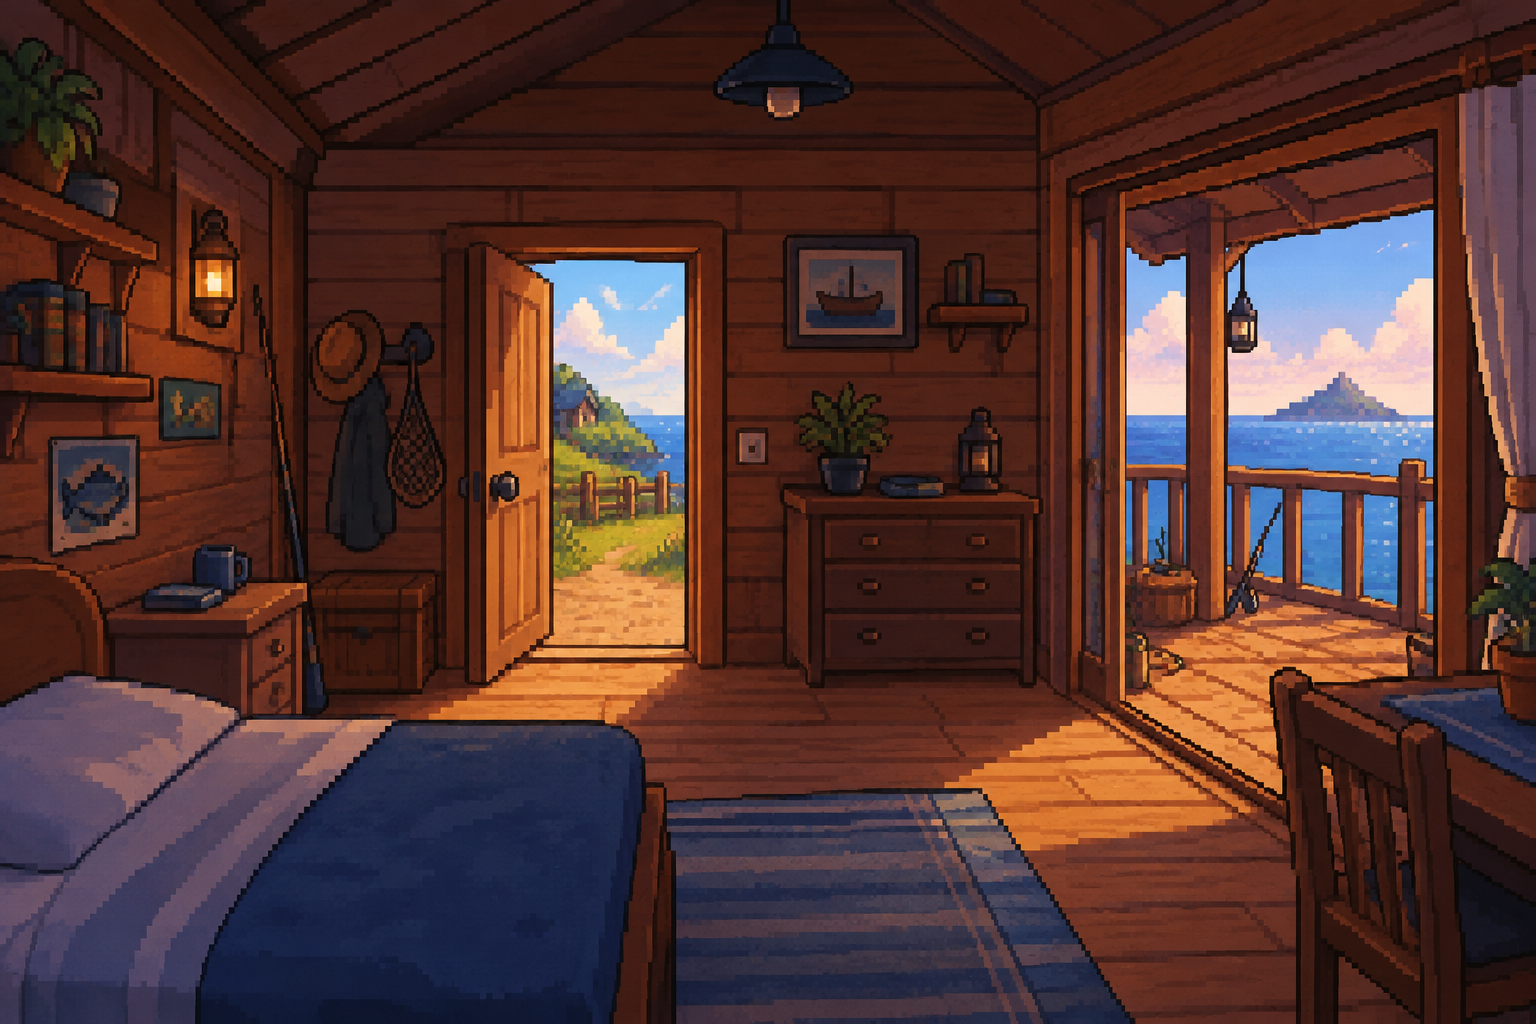
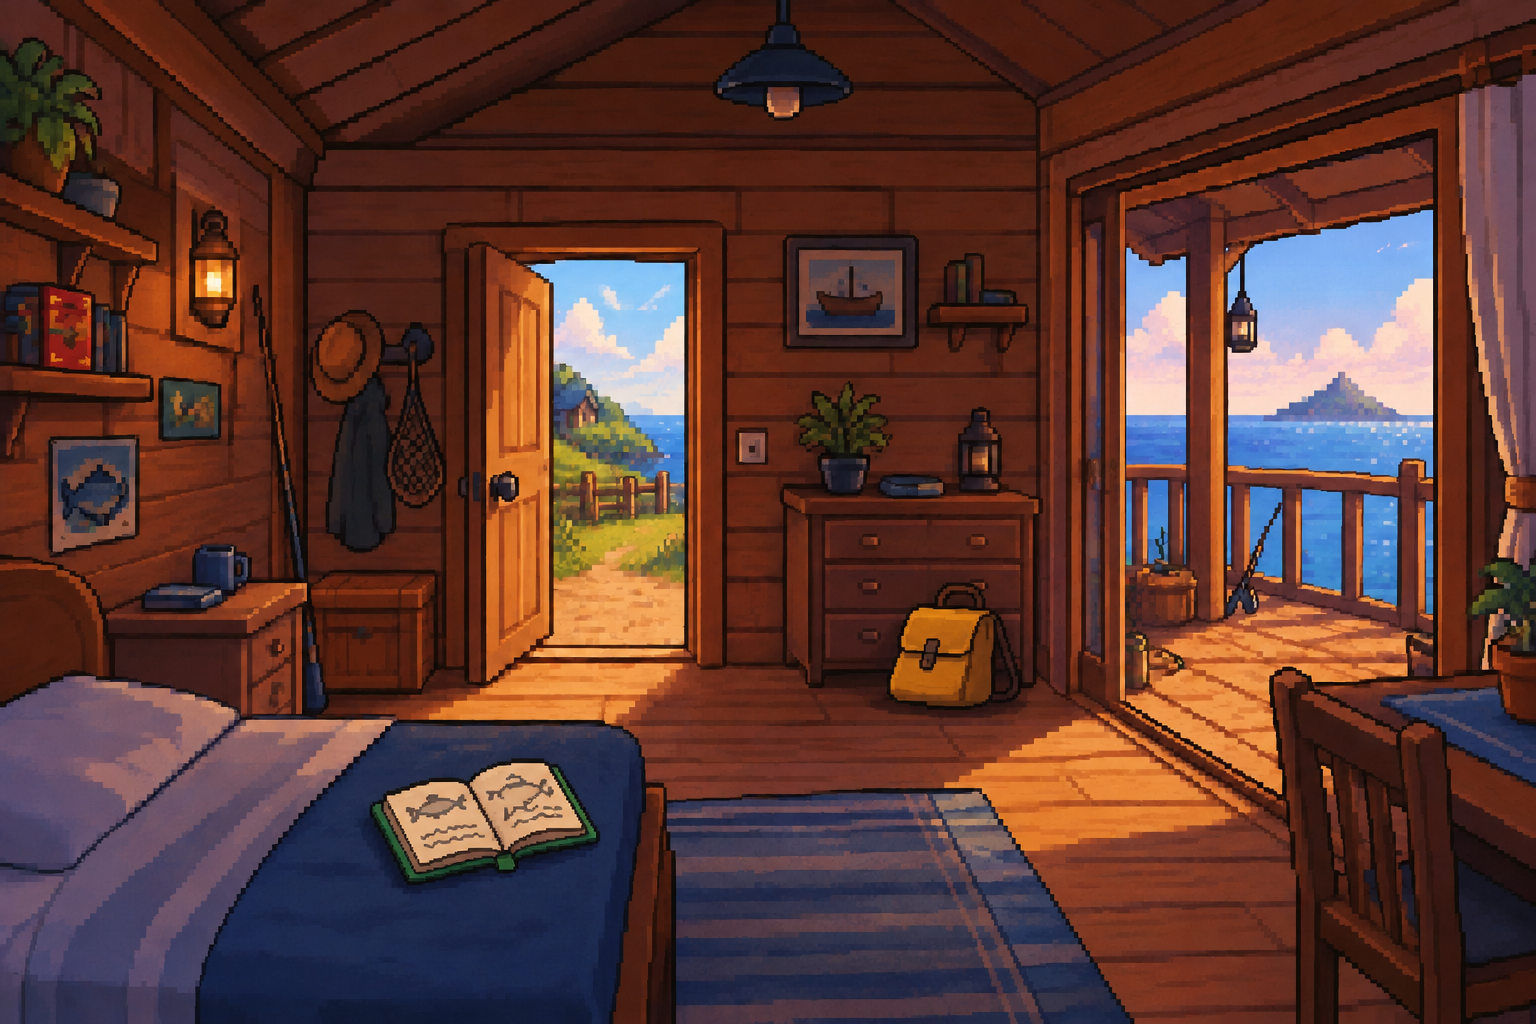
fundo inicial da casa alterado

diff --git a/monstrobolso_combate/css/fundos.css b/monstrobolso_combate/css/fundos.css
@@ -1,5 +1,5 @@
 .casa_inicial {
-    background-image: url("../assets/casa_inicial.png");
+    background-image: url("../assets/casa.png");
     background-size: cover;
     background-position: center;
     background-repeat: no-repeat;
